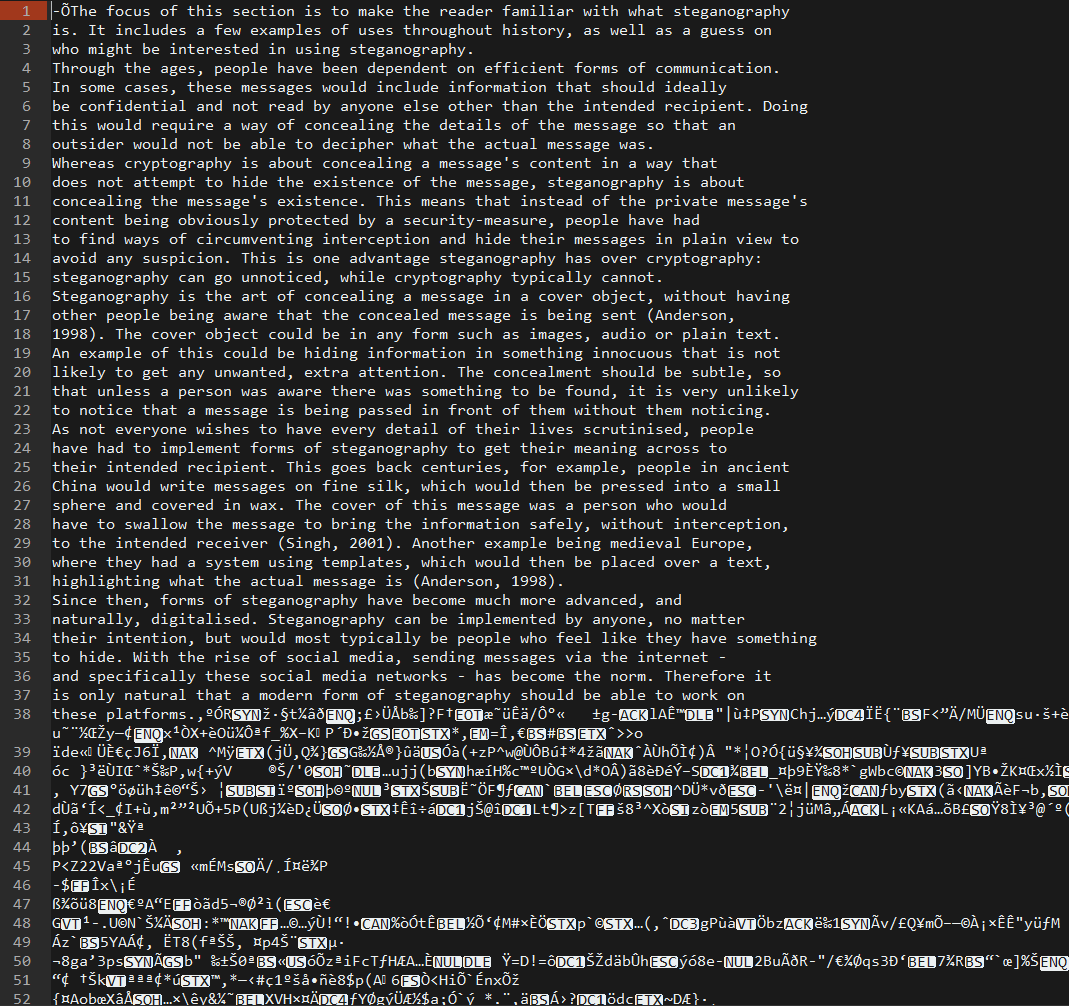
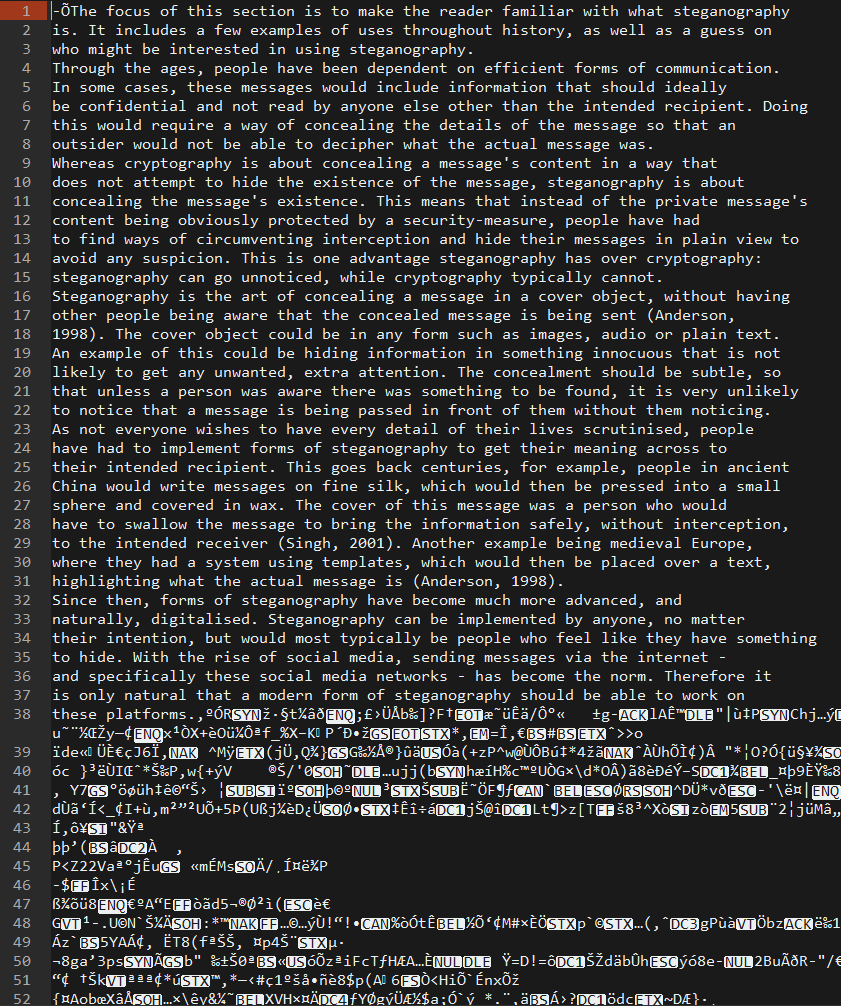
More images to pick from in brute-decoding

Changed region(s): [[0.0, 0.0, 1.0, 1.0]]

diff --git a/Eksamen/Leo/steganalysis.tex b/Eksamen/Leo/steganalysis.tex
@@ -100,7 +100,7 @@ While LSB enhancing works for LSB, it cannot detect our program}
 \begin{frame}{Brute-decoding}
 \begin{figure}
 \centering
-\subfigure[Decoded message]{\label{fig:text}\includegraphics[width=.8\textwidth]{figures/giberish.png}}
+\subfigure[Decoded message]{\label{fig:text}\includegraphics[width=.8\textwidth]{figures/lessGiberish.png}}
 \end{figure}
 \note{First 2 chars are our metaData bytes in ASCII}
 \end{frame}
